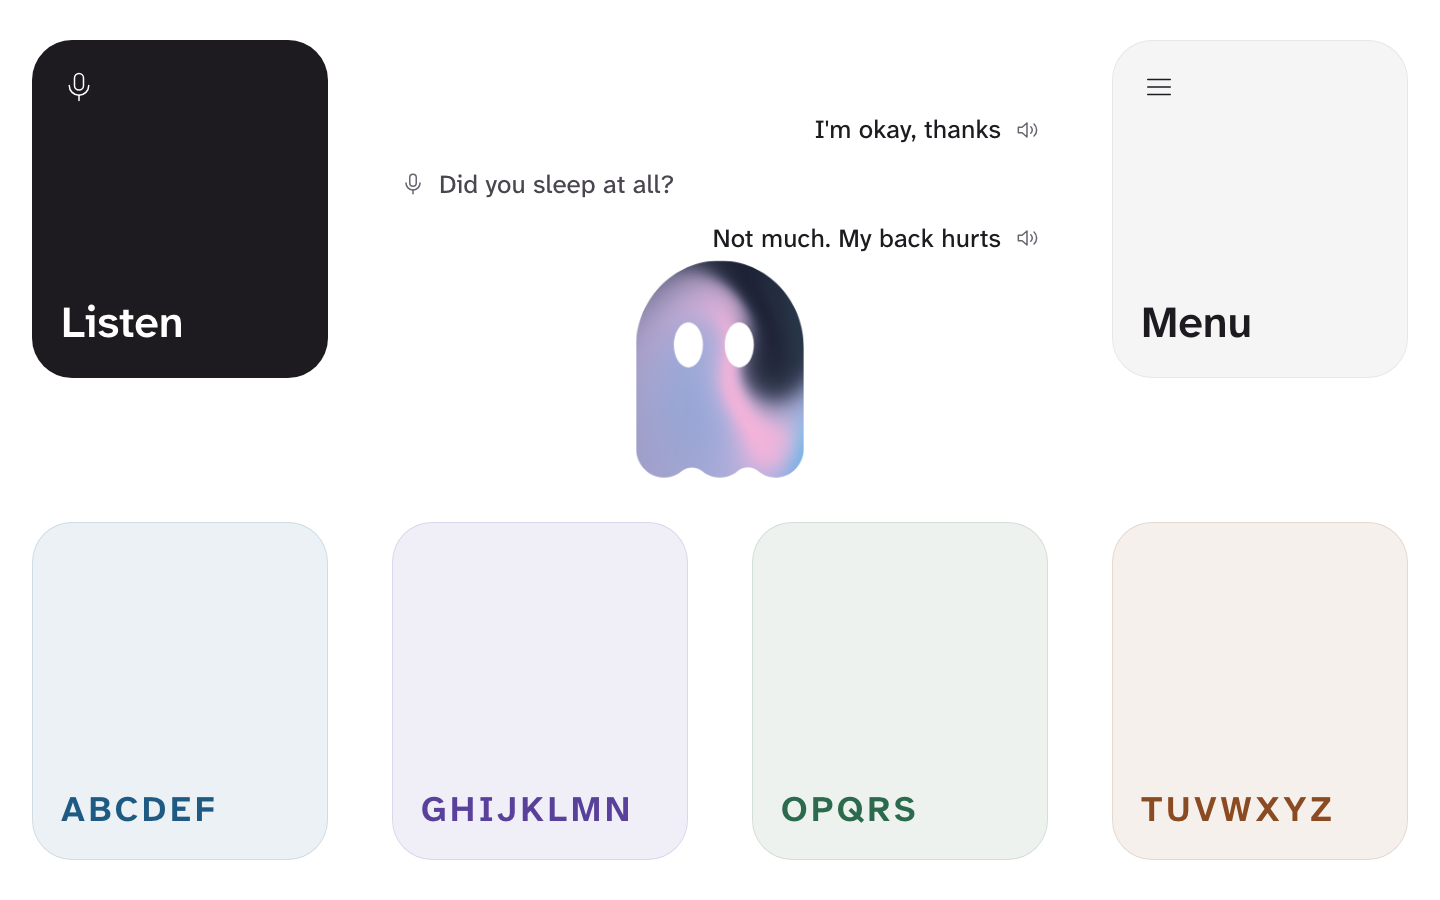
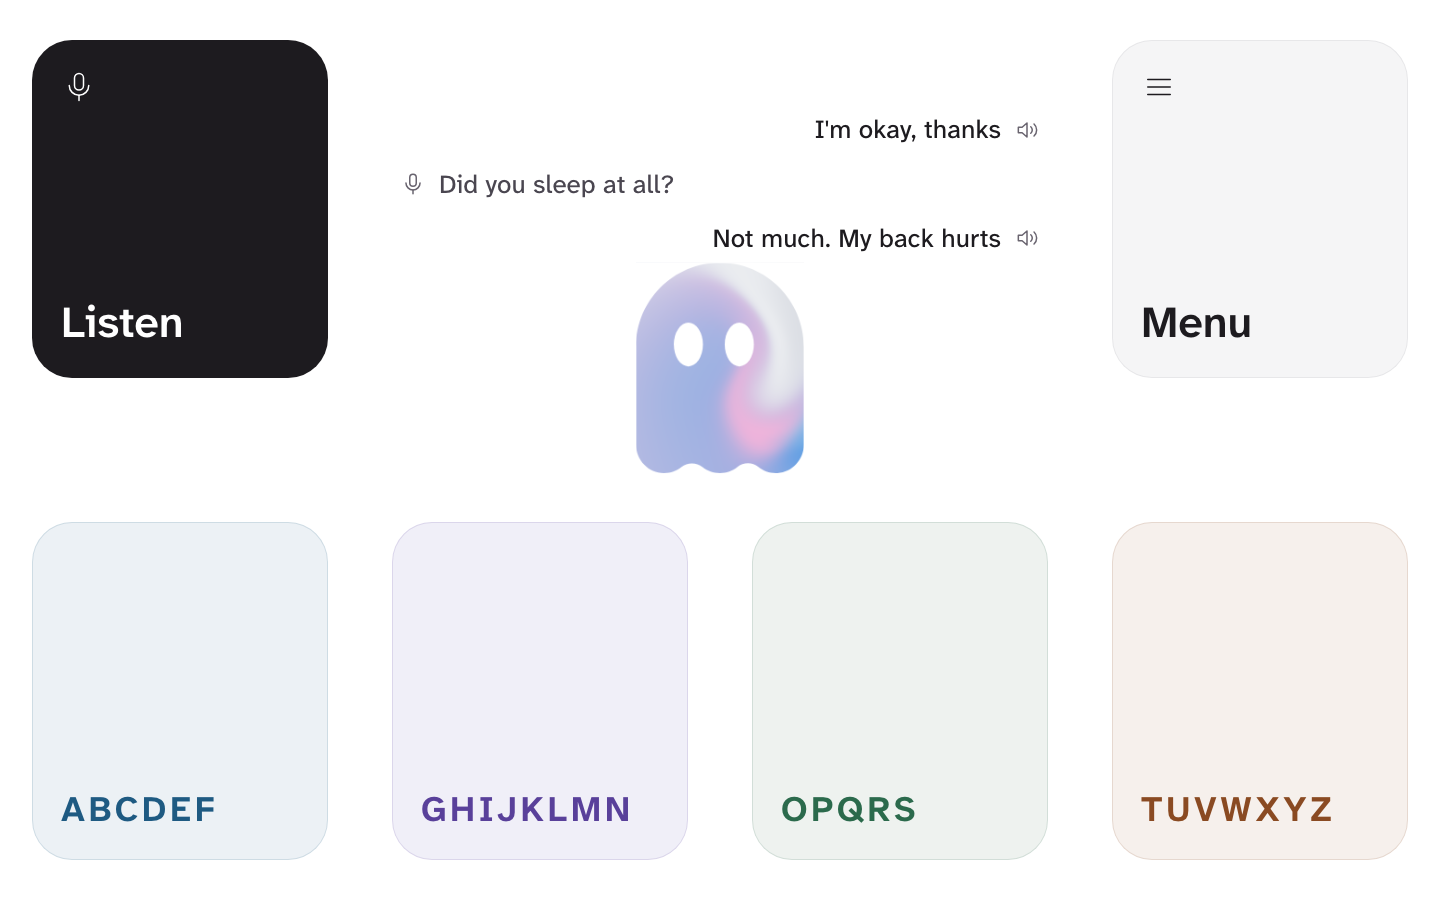
feat(s8): grey-white in place of the ghost's two dark blues
Owner request: try a grey-ish white instead of the black. #2C3E50 and
#1A1A2E become #DADDE3 and #ECEEF1; pink, sky blue and medium blue stay.

Changed region(s): [[0.4375, 0.28, 0.5625, 0.5289]]

diff --git a/prototypes/UI/v0/s8/src/components/ui/shader-svg.tsx b/prototypes/UI/v0/s8/src/components/ui/shader-svg.tsx
@@ -9,8 +9,8 @@ export function MeshGradientSVG() {
     "#FFB3D9", // Pastel pink
     "#87CEEB", // Sky blue
     "#4A90E2", // Medium blue
-    "#2C3E50", // Dark blue-gray
-    "#1A1A2E", // Very dark blue
+    "#DADDE3", // Grey-white (owner, 2026-11-08, in place of dark blue-gray)
+    "#ECEEF1", // Pale grey-white (in place of very dark blue)
   ]
 
   const svgRef = useRef<SVGSVGElement>(null)

diff --git a/prototypes/UI/v0/s8/DESIGN.md b/prototypes/UI/v0/s8/DESIGN.md
@@ -36,9 +36,9 @@ Style 8 plays the shared sound system ([../SOUND.md](../SOUND.md)) instead of st
 
 ## The companion (owner, 2026-11-08)
 
-The owner rejected the Cloud ("I don't like the cloud in general") and a redrawn cumulus, and asked for their reference component exactly, colours included. It is in `src/components/ui/shader-svg.tsx`: a ghost silhouette clipped over a `@paper-design/shaders-react` mesh gradient (pastel pink, sky blue, medium blue, dark blue-grey, very dark blue), with two ink eyes that follow the pointer and blink every 3 s, bobbing every 2.8 s. `?demo` shows it alone.
+The owner rejected the Cloud ("I don't like the cloud in general") and a redrawn cumulus, and asked for their reference component exactly, colours included. It is in `src/components/ui/shader-svg.tsx`: a ghost silhouette clipped over a `@paper-design/shaders-react` mesh gradient (pastel pink, sky blue, medium blue, and two grey-whites, #DADDE3 and #ECEEF1, in place of the reference's dark blue-grey and very dark blue at the owner's request, 2026-11-08), with two ink eyes that follow the pointer and blink every 3 s, bobbing every 2.8 s. `?demo` shows it alone.
 
-Three changes from the given file. Two were needed to run here. styled-jsx is Next.js only, so its rules sit in a plain `<style>`. It measured `document.querySelector("svg")`, which in Clarte is the Listen card's icon, so it measures its own svg through a ref. The third (owner, 2026-11-08) makes the eyes white. With `currentColor` they took Clarte's dark ink and sank into the gradient's navy; a white ring around ink eyes was tried and declined. Measured over 20 s of drift, white eyes keep a median 3.4:1 against the ghost, with a worst case of 1.8:1 on the palest pink.
+Three changes from the given file. Two were needed to run here. styled-jsx is Next.js only, so its rules sit in a plain `<style>`. It measured `document.querySelector("svg")`, which in Clarte is the Listen card's icon, so it measures its own svg through a ref. The third (owner, 2026-11-08) makes the eyes white. With `currentColor` they took Clarte's dark ink and sank into the gradient's navy; a white ring around ink eyes was tried and declined. On the original palette white eyes measured median 3.4:1 against the ghost over 20 s; on the grey-white palette they measure median 1.8:1, worst 1.3:1, so they read by shape rather than contrast.
 
 To take the component as given, style 8 now has shadcn's structure: the `@/` alias to `src`, `src/components/ui/`, and Tailwind 4 (theme and utilities only, no preflight, so style 8's own styles are unchanged).
 
